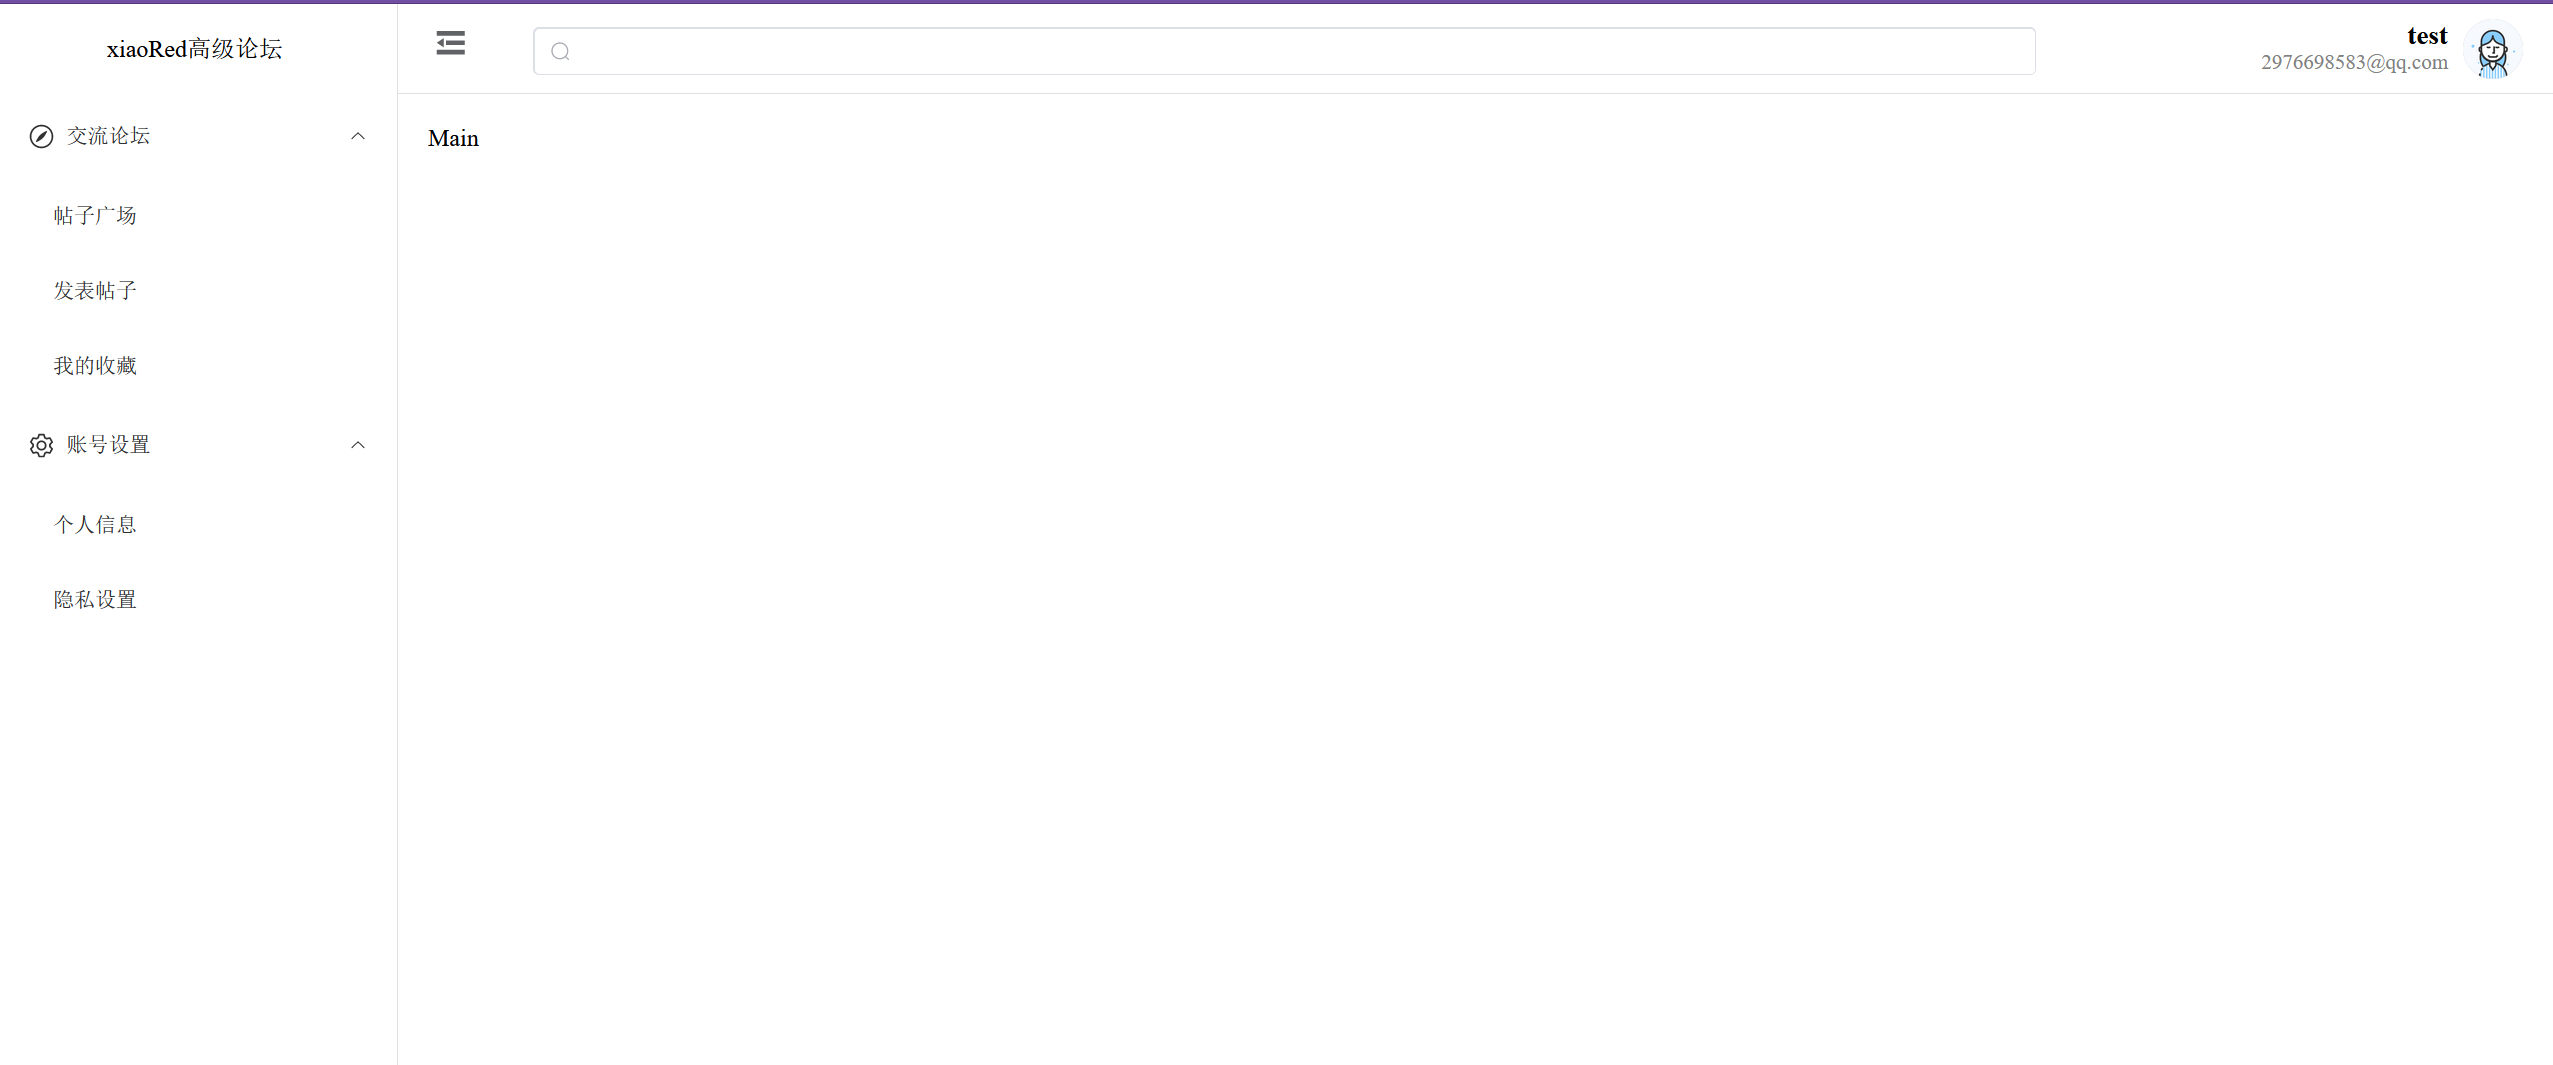
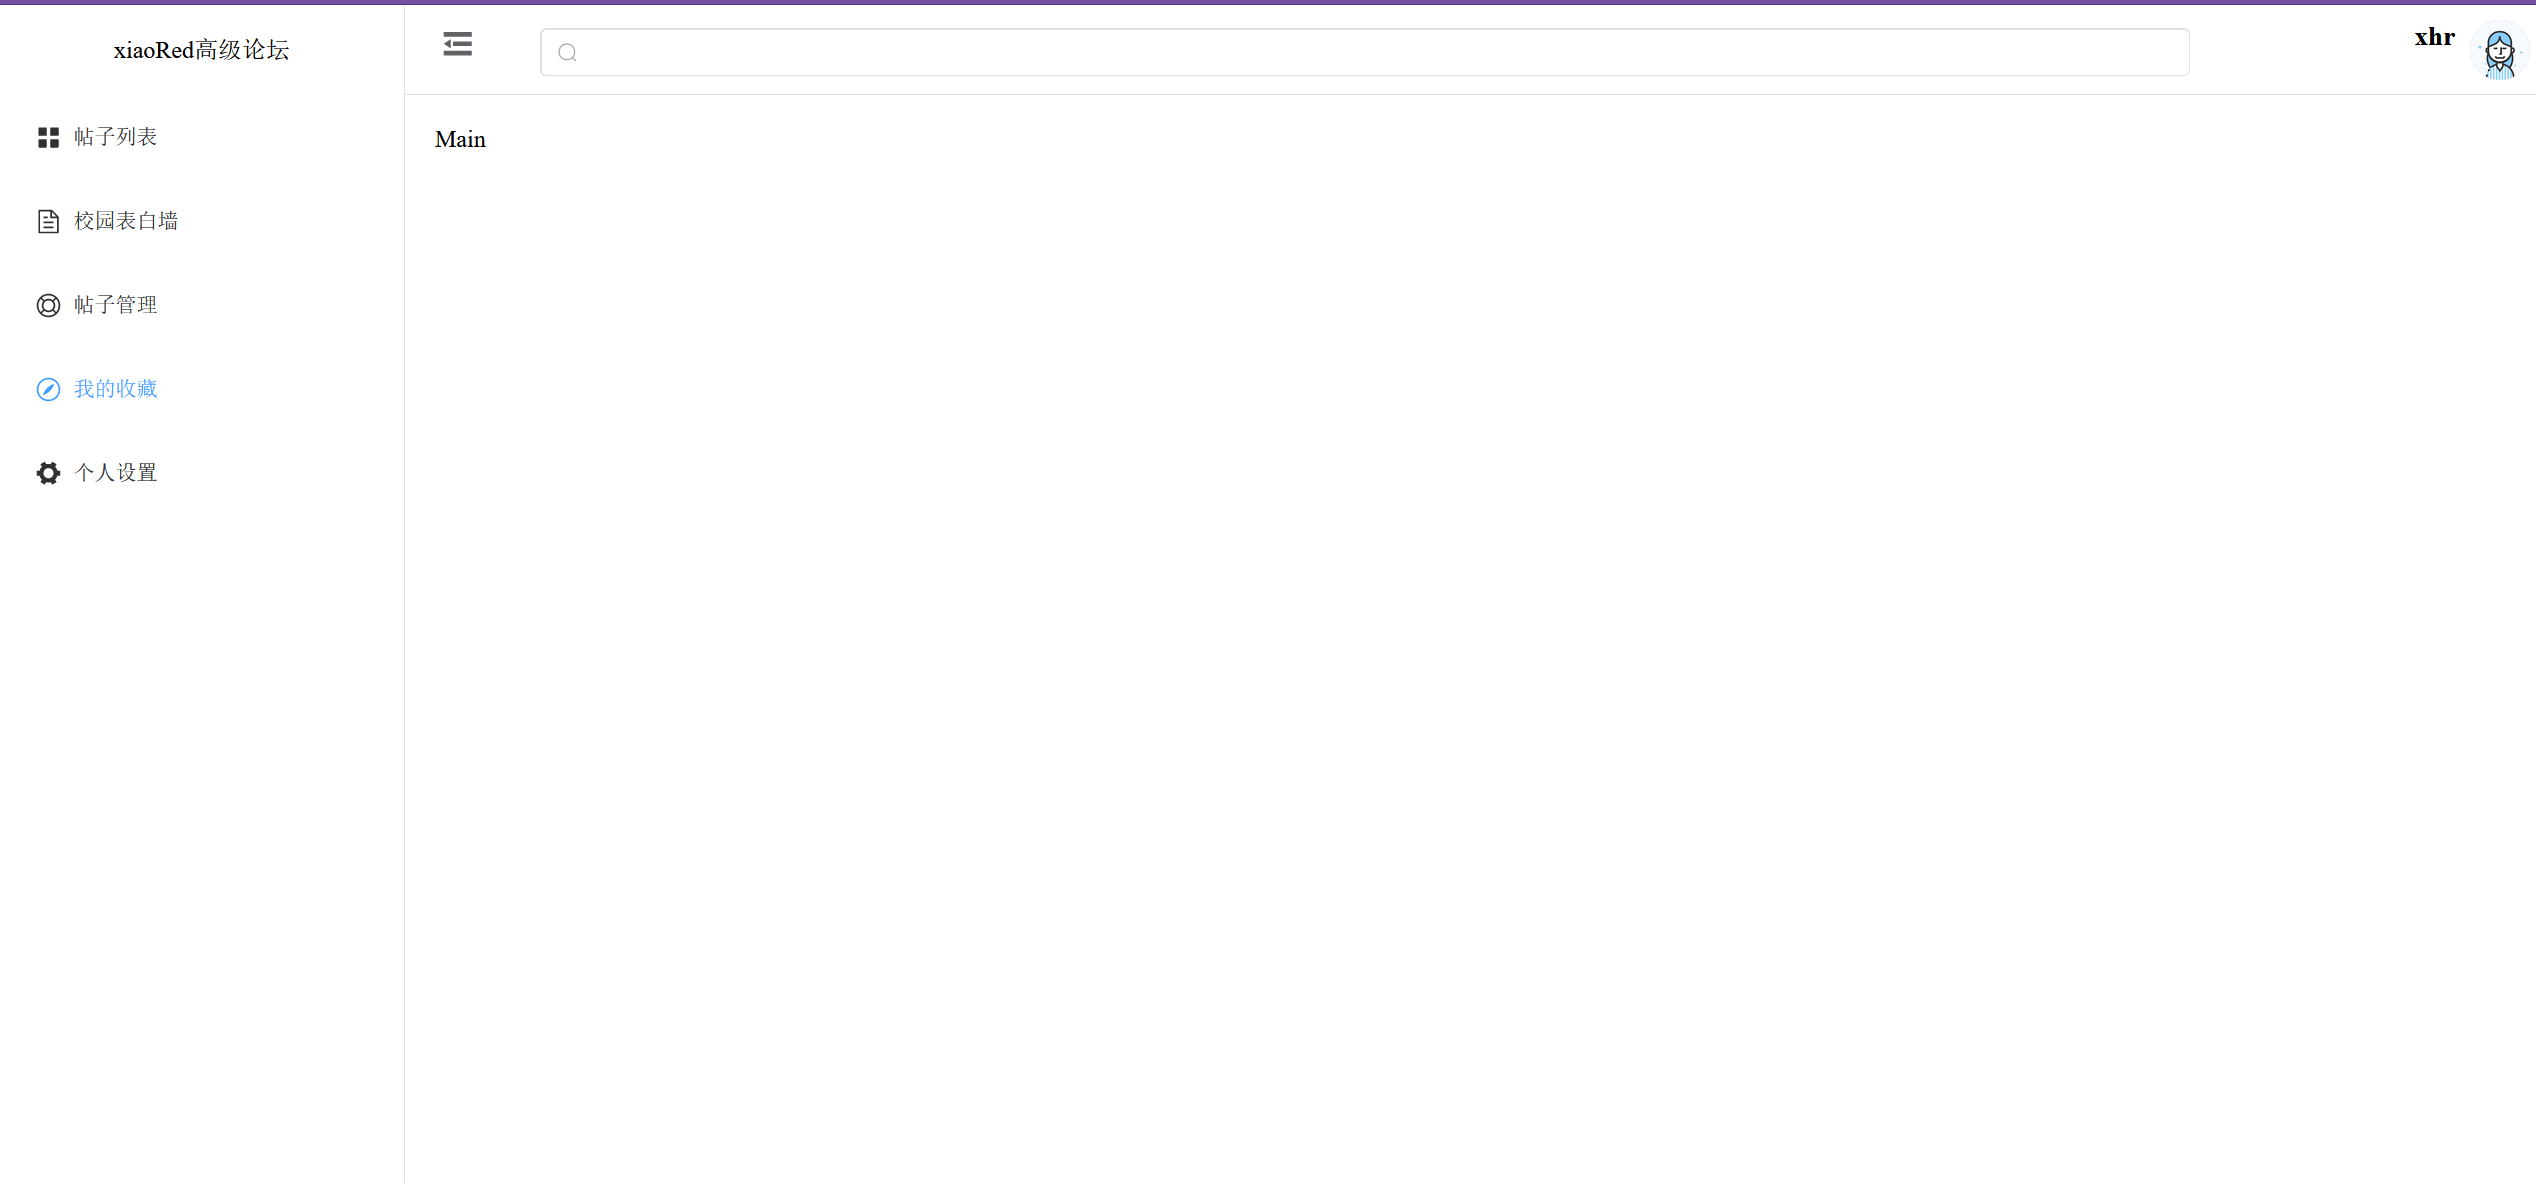
路由配置问题

diff --git a/前端模块.md b/前端模块.md
@@ -172,42 +172,75 @@ src/views/indexView.vue
             @open="handleOpen"
             @close="handleClose"
         >
-          <el-sub-menu index="1">
-            <template #title>
-              <el-icon><Compass/></el-icon>
-              <span>交流论坛</span>
-            </template>
-              <el-menu-item index="1-1">帖子广场</el-menu-item>
-              <el-menu-item index="1-2">发表帖子</el-menu-item>
-              <el-menu-item index="1-3">我的收藏</el-menu-item>
-          </el-sub-menu>
-          <el-sub-menu index="2">
-            <template #title>
-              <el-icon><Setting/></el-icon>
-              <span>账号设置</span>
-            </template>
-            <el-menu-item index="2-1">个人信息</el-menu-item>
-            <el-menu-item index="2-2">隐私设置</el-menu-item>
-          </el-sub-menu>
+          <el-menu-item index="1">
+              <el-icon><Menu /></el-icon>
+              <span>帖子列表</span>
+          </el-menu-item>
+          <el-menu-item index="2">
+            <el-icon><Document /></el-icon>
+            <span>校园表白墙</span>
+          </el-menu-item>
+          <el-menu-item index="3">
+            <el-icon><Help /></el-icon>
+            <span>帖子管理</span>
+          </el-menu-item>
+          <el-menu-item index="4">
+            <el-icon><Compass/></el-icon>
+            <span>我的收藏</span>
+          </el-menu-item>
+          <el-menu-item index="5">
+            <el-icon><Tools /></el-icon>
+            <span>个人设置</span>
+          </el-menu-item>
         </el-menu>
       </el-aside>
       <el-container>
         <!--顶部栏-->
         <el-header class="content-header">
-          ...
+          <!--控制左侧导航栏展开，隐藏的按钮-->
+          <div>
+            <!--点击按钮，对hideMenu取反-->
+            <!--根据hideMenu的值不同，按钮图标也不同-->
+            <el-button style="margin-top: 10px;font-size: 25px;width: 20px"
+                       :icon="hideMenu?Expand : Fold" text @click="hideMenu = !hideMenu"/>
+          </div>
+          <!--添加一个输入框-->
+          <div style="flex: 1;margin: 0 150px 0 40px">
+            <el-input :prefix-icon="Search" style="margin-top: 15px"></el-input>
+          </div>
+          <!--展示当前登录的用户名和邮箱-->
+          <div class="user-name-email">
+            <!--注意：username,email对应的是后端里AccountUser的字段-->
+            <div class="user-name">{{store.auth.user.username}}</div>
+            <div class="user-email">{{store.auth.user.email}}</div>
+          </div>
+          <!--引入element-plus的头像和下拉菜单-->
+          <div style="margin-top: 10px" class="user-avatar">
+            <el-dropdown>
+              <el-avatar src="https://cube.elemecdn.com/0/88/03b0d39583f48206768a7534e55bcpng.png"></el-avatar>
+              <template #dropdown>
+                <el-dropdown-menu>
+                  <el-dropdown-item :icon="User">个人信息</el-dropdown-item>
+                  <el-dropdown-item :icon="SwitchButton" divided @click="logout">退出登录</el-dropdown-item>
+                </el-dropdown-menu>
+              </template>
+            </el-dropdown>
+          </div>
         </el-header>
-        <!--主体内容-->
+        <!--主题内容-->
         <el-main style="">Main</el-main>
       </el-container>
     </el-container>
+
   </div>
+
 </template>
 ``` 
 
 ② js部分
 
 ```js
-import {User, SwitchButton, Fold, Search,Compass,Setting,Expand} from "@element-plus/icons-vue";
+import {User, SwitchButton, Fold, Search,Compass,Menu,Expand,Document,Help,Tools} from "@element-plus/icons-vue";
 import {ref} from "vue";
 const hideMenu = ref(false)//控制左侧栏是否隐藏，默认不隐藏
 ```
@@ -244,3 +277,147 @@ const hideMenu = ref(false)//控制左侧栏是否隐藏，默认不隐藏
 </div>
 ```
 
+# 路由配置问题
+
+store中的是保存在内存里的，刷新就没了，判断为空
+
+登录成功后，不仅存在store中，也存在localStorage中，永久存储
+
+src/components/welcome/LoginPage.vue
+登录成功，还要把信息存到localStorage中
+```js
+//点击“登录”
+const login = () =>{
+  ...
+    },(message) =>{//登录成功
+      ElMessage.success(message)
+      //先获取用户信息
+      get('/api/user/me',(message)=>{
+        //获取成功，就将用户信息存储在前端，然后才跳转到index
+        store.auth.user = message
+        localStorage.setItem("user", JSON.stringify(message))//存在localStorage永久存储
+        router.push('/index')
+      },
+        )  ...
+}
+```
+
+src/App.vue 之前的逻辑改为
+```js
+//把存在localStorage中的user取出来
+const user = localStorage.getItem('user')
+
+if(user != null){//如果存储的用户信息不为空，就将用户信息恢复回store里
+  store.auth.user=JSON.parse(user)//localStorage中的是json格式，因此还要解析
+}
+```
+
+如果不选“记住我”
+src/net/index.js 修改封装的post，get方法
+```js
+//封装axios的post方法
+//data就是接收后端响应过来的数据。后端那边统一了响应类，也就是RestBean
+function post(url, data, success, failure = defaultFailure, error = defaultError){
+    axios.post(url, data, {//配置
+       ...
+    }).then(({data})=>{
+        if(data.status===401){//用户没登陆，后端会响应401
+            //没登录，直接退回去
+            router.push('/')
+            ElMessage.warning('请重新登录')
+        }
+        else if(data.success)
+            success(data.message, data.status)
+        else
+            failure(data.message, data.status)
+    }).catch(error)
+}
+
+//封装axios的get方法（get没有data）
+function get(url, success, failure = defaultFailure, error = defaultError){
+    axios.get(url,{
+       ...
+    }).then(({data})=>{
+        if(data.status===401){//用户没登陆，后端会响应401
+            //没登录，直接退回去
+            router.push('/')
+            ElMessage.warning('请重新登录')
+        }
+        else if(data.success)
+            success(data.message, data.status,)
+        else
+            failure(data.message, data.status)
+    }).catch(error)
+}
+```
+
+# 主体
+
+
+## 前置
+
+① 创建对应的主体页面，现在先创建帖子列表页面和个人设置页面
+src/components/index/PostList.vue
+src/components/index/Settings.vue
+
+② router/index.js配置路由
+
+```js
+...
+ //路由2：登录成功后的界面
+    {
+      path: '/index',
+      name: 'index',
+      component:()=>import('@/views/indexView.vue'),
+      children: [
+        {
+          //默认"帖子列表"界面
+          path: '',
+          name: 'index-list',
+          component:()=>import('@/components/index/PostList.vue')
+        },{
+          //"个人设置"界面
+          path: 'settings',
+          name: 'index-settings',
+          component:()=>import('@/components/index/Settings.vue')
+        }
+      ]
+    }
+```
+
+③ src/views/indexView.vue左侧栏，主体内容打开路由功能
+
+左侧栏：el-menu添加`router`属性，el-menu-item的index属性改为路由路径
+
+主体内容：添加`<router-view/>`
+
+```html
+...
+<el-menu
+class="content-aside-menu"
+router
+>
+  <el-menu-item index="/index">
+    el-icon><Menu /></el-icon>
+    <span>帖子列表</span>
+  </el-menu-item>
+  ...
+  <el-menu-item index="/index/settings">
+   <el-icon><Tools /></el-icon>
+   <span>个人设置</span>
+  </el-menu-item>
+</el-menu>
+...
+<!--主体内容-->
+<el-main style="padding: 0">
+<router-view/>
+</el-main>
+...
+```
+
+## 个人设置页面
+
+需求：主体部分用标签页分为“个人信息设置”和“账户安全设置”，右侧加个明信片，展示用户图像，用户名，一些简介之类的，丰富下界面
+
+利用element plus提供的tabs标签页
+from表单
